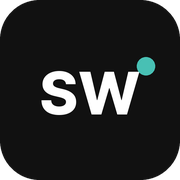
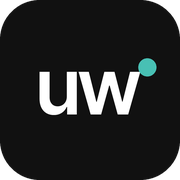
아이콘 sw → uw(같은 글꼴·간격·점 위치), 팀 캘린더 이름 유니버스인베스트먼트(옛 이름도 인정)

diff --git a/graph.js b/graph.js
@@ -25,7 +25,7 @@ const CFG = {
   teamDrive: 'b!j-FPAIUPjU6AnBcIJNprMgAfPOR1jCVOvR6mVssjMWkyr34wYSj7Rp-_wJU9Subr', // 팀 '스페이스인베스트먼트' 파일함(공용 폴더) — 팀원이면 누구나 읽고 쓴다
   teamCalendarId: 'AAMkAGY5ZWRkMzlmLTNmYjUtNDE3NC04YTUxLTliZjgyYjU0Yjc1NQBGAAAAAAB2D1ON4THdQYUFMZAr45FEBwA217gkwboaRqzQAV2p_lEqAAAAAAEGAAA217gkwboaRqzQAV2p_lEqAAAAE7aBAAA=',
   root: 'SPACE WORKS',        // 회사 OneDrive 안 앱 폴더
-  teamCalendar: '스페이스인베스트먼트',
+  teamCalendar: '유니버스인베스트먼트', // 2026-11-10 이름 변경(옛 이름 '스페이스인베스트먼트'도 인정)
 };
 const APP_URL = location.origin + location.pathname.replace(/[^/]*$/, ''); // 앱 폴더 주소 = 로그인 리디렉션 주소
 
@@ -221,7 +221,7 @@ const OUTLOOK = {
     let temporary = false;
     for (const c of (await G.get('/me/calendars?$select=id,name,isDefaultCalendar')).value) {
       if (c.isDefaultCalendar) ids.me = `/me/calendars/${c.id}`;
-      else if (G.isOwner && c.name.trim() === CFG.teamCalendar) ids.team = `/me/calendars/${c.id}`;
+      else if (G.isOwner && [CFG.teamCalendar, '스페이스인베스트먼트'].includes(c.name.trim())) ids.team = `/me/calendars/${c.id}`;
     }
     OUTLOOK.teamWritable = G.isOwner;
     if (!G.isOwner) { // 공유받은 캘린더는 주인 사서함 쪽 경로로 읽는다(Outlook에 추가했는지와 무관)

diff --git a/sw.js b/sw.js
@@ -1,5 +1,5 @@
 /* SPACE WORKS 서비스워커: 앱 화면 파일만 캐시(오프라인에서도 열리게). 메일·일정·파일 같은 데이터는 캐시하지 않는다. */
-const VERSION = 'works-1794287667';
+const VERSION = 'works-1794288085';
 const SHELL = ['./', 'index.html', 'style.css', 'mail.css', 'graph.js', 'app.js', 'mail.js', 'events.js', 'events.css', 'ipo.js', 'ipo.css', 'radar.js', 'radar.css', 'pipeline.js', 'pipeline.css', 'facts.js', 'facts.css', 'files.js', 'files.css', 'news.js', 'news.css', 'market.js', 'market.css', 'feedback.js', 'feedback.css', 'guide.js', 'guide.css', 'vendor/msal-browser.min.js', 'manifest.webmanifest', 'icons/icon-192.png'];
 
 self.addEventListener('install', (e) => { e.waitUntil(caches.open(VERSION).then((c) => c.addAll(SHELL)).then(() => self.skipWaiting())); });
